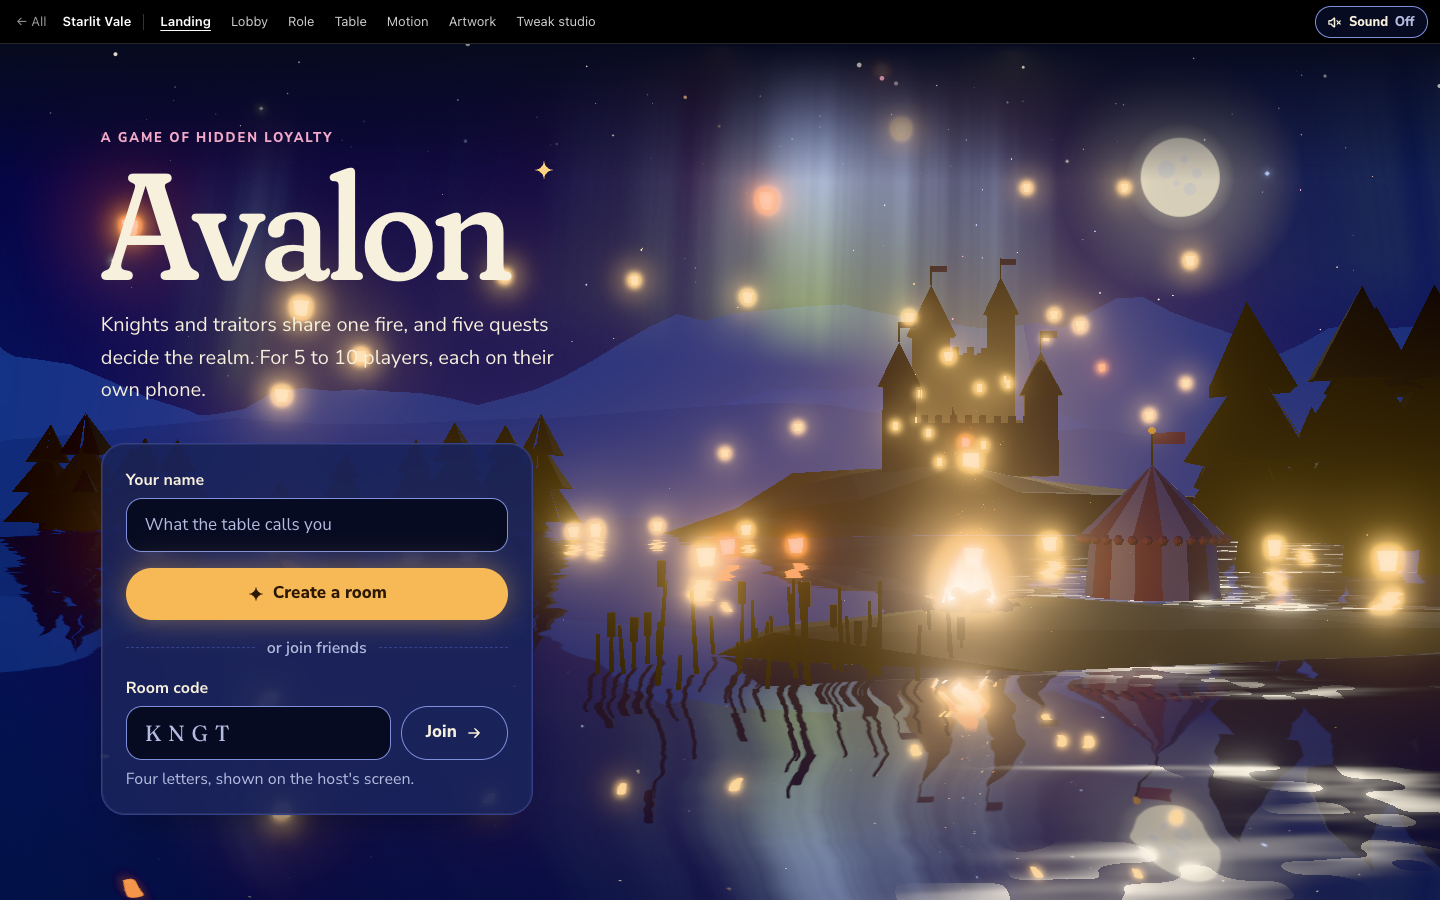
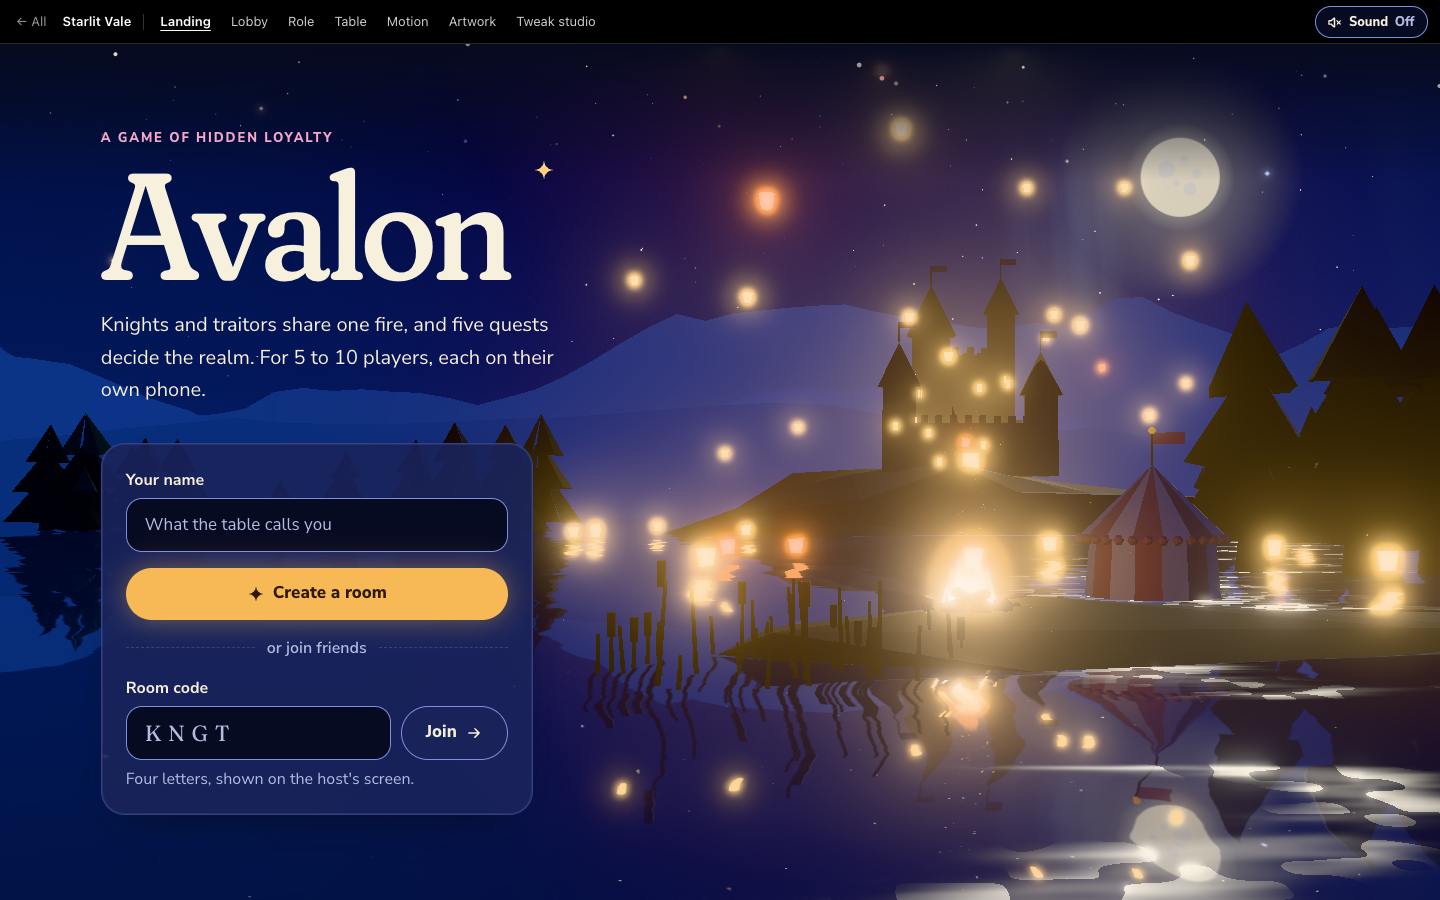
fix(design): live dials, a clear title column and context loss in 3D heroes
The tweak <style> lives inside the theme, not the head: watch it there
so dial changes rebuild the 3D colours live. Lanterns fade before they
reach the title column on wide screens, the aurora sits over the
castle, and a lost WebGL context falls back to the drawn scene.

Claude-Session: https://claude.ai/code/session_017rvMnjyMzxcMV82a8yoRz8

diff --git a/src/routes/design/starlit/-components/three/scenes/lantern-lake.ts b/src/routes/design/starlit/-components/three/scenes/lantern-lake.ts
@@ -204,6 +204,7 @@ export const createLanternLake: CreateConcept = ({ palette: p, lite }) => {
 
   let layout: Layout = { width: 1, height: 1, aspect: 1, wide: false };
   const look = new Vector3();
+  const onScreen = new Vector3();
 
   const concept: ConceptScene = {
     scene,
@@ -240,7 +241,12 @@ export const createLanternLake: CreateConcept = ({ palette: p, lite }) => {
         l.body.position.set(l.x + drift, l.y + 0.3, l.z);
         l.body.rotation.z = Math.sin(time * 0.8 + l.phase) * 0.06;
         l.glow.position.copy(l.body.position);
-        const fade = l.floating ? 1 : Math.min(1, (62 - l.y) / 18);
+        let fade = l.floating ? 1 : Math.min(1, (62 - l.y) / 18);
+        if (layout.wide) {
+          // Keep lantern light out of the title column on the left.
+          onScreen.copy(l.body.position).project(camera);
+          fade *= Math.min(1, Math.max(0, (onScreen.x + 0.24) / 0.2));
+        }
         l.glow.material.opacity = 0.32 * fade;
         l.body.visible = fade > 0.05;
       }
@@ -360,9 +366,9 @@ function auroraCurtains(bin: Bin, p: Palette) {
       `,
     }),
   );
+  // One curtain, over the castle: kept clear of the title column on wide.
   for (const [z, x, w, h, bend, tilt] of [
-    [-330, 40, 520, 150, 60, 0.18],
-    [-300, -120, 380, 110, 40, -0.12],
+    [-330, 150, 420, 150, 60, 0.18],
   ] as const) {
     const geometry = bin.add(new PlaneGeometry(w, h, 96, 1));
     const pos = geometry.getAttribute("position") as BufferAttribute;

diff --git a/src/routes/design/starlit/-components/three/engine.ts b/src/routes/design/starlit/-components/three/engine.ts
@@ -29,6 +29,8 @@ export interface MountOptions {
    * thumbnails, so a page of them holds no WebGL contexts.
    */
   snapshot?: boolean;
+  /** The GPU dropped the context: the caller should show the drawing. */
+  onLost?: () => void;
 }
 
 /**
@@ -217,23 +219,28 @@ export async function mountConcept(
     sync();
   });
   intersection.observe(host);
-  // A tweak dial rewrites a <style> in the head: rebuild with its colours.
+  // A tweak dial rewrites a <style> inside the theme (and stylesheets can
+  // change in the head): when the art tokens change, rebuild with them. The
+  // check is a cheap string compare, so other DOM changes cost little.
   let rebuildTimer = 0;
   const styles = new MutationObserver(() => {
     window.clearTimeout(rebuildTimer);
     rebuildTimer = window.setTimeout(rebuild, 150);
   });
-  styles.observe(document.head, {
-    childList: true,
-    subtree: true,
-    characterData: true,
-  });
+  for (const root of [document.head, themeEl]) {
+    styles.observe(root, {
+      childList: true,
+      subtree: true,
+      characterData: true,
+    });
+  }
   document.addEventListener("visibilitychange", sync);
   motion.addEventListener("change", sync);
   const onLost = (event: Event) => {
     event.preventDefault();
     running = false;
     cancelAnimationFrame(frameId);
+    options.onLost?.();
   };
   canvas.addEventListener("webglcontextlost", onLost);
 

diff --git a/src/routes/design/starlit/-components/three/hero-3d.tsx b/src/routes/design/starlit/-components/three/hero-3d.tsx
@@ -34,7 +34,14 @@ export function Hero3D({
     if (import.meta.env.SSR) return;
     void import("./engine")
       .then(({ mountConcept }) =>
-        mountConcept(el, concept, { interactive, backdrop, snapshot }),
+        mountConcept(el, concept, {
+          interactive,
+          backdrop,
+          snapshot,
+          onLost: () => {
+            if (!cancelled) setFailed(true);
+          },
+        }),
       )
       .then((teardown) => {
         if (cancelled) teardown?.();
